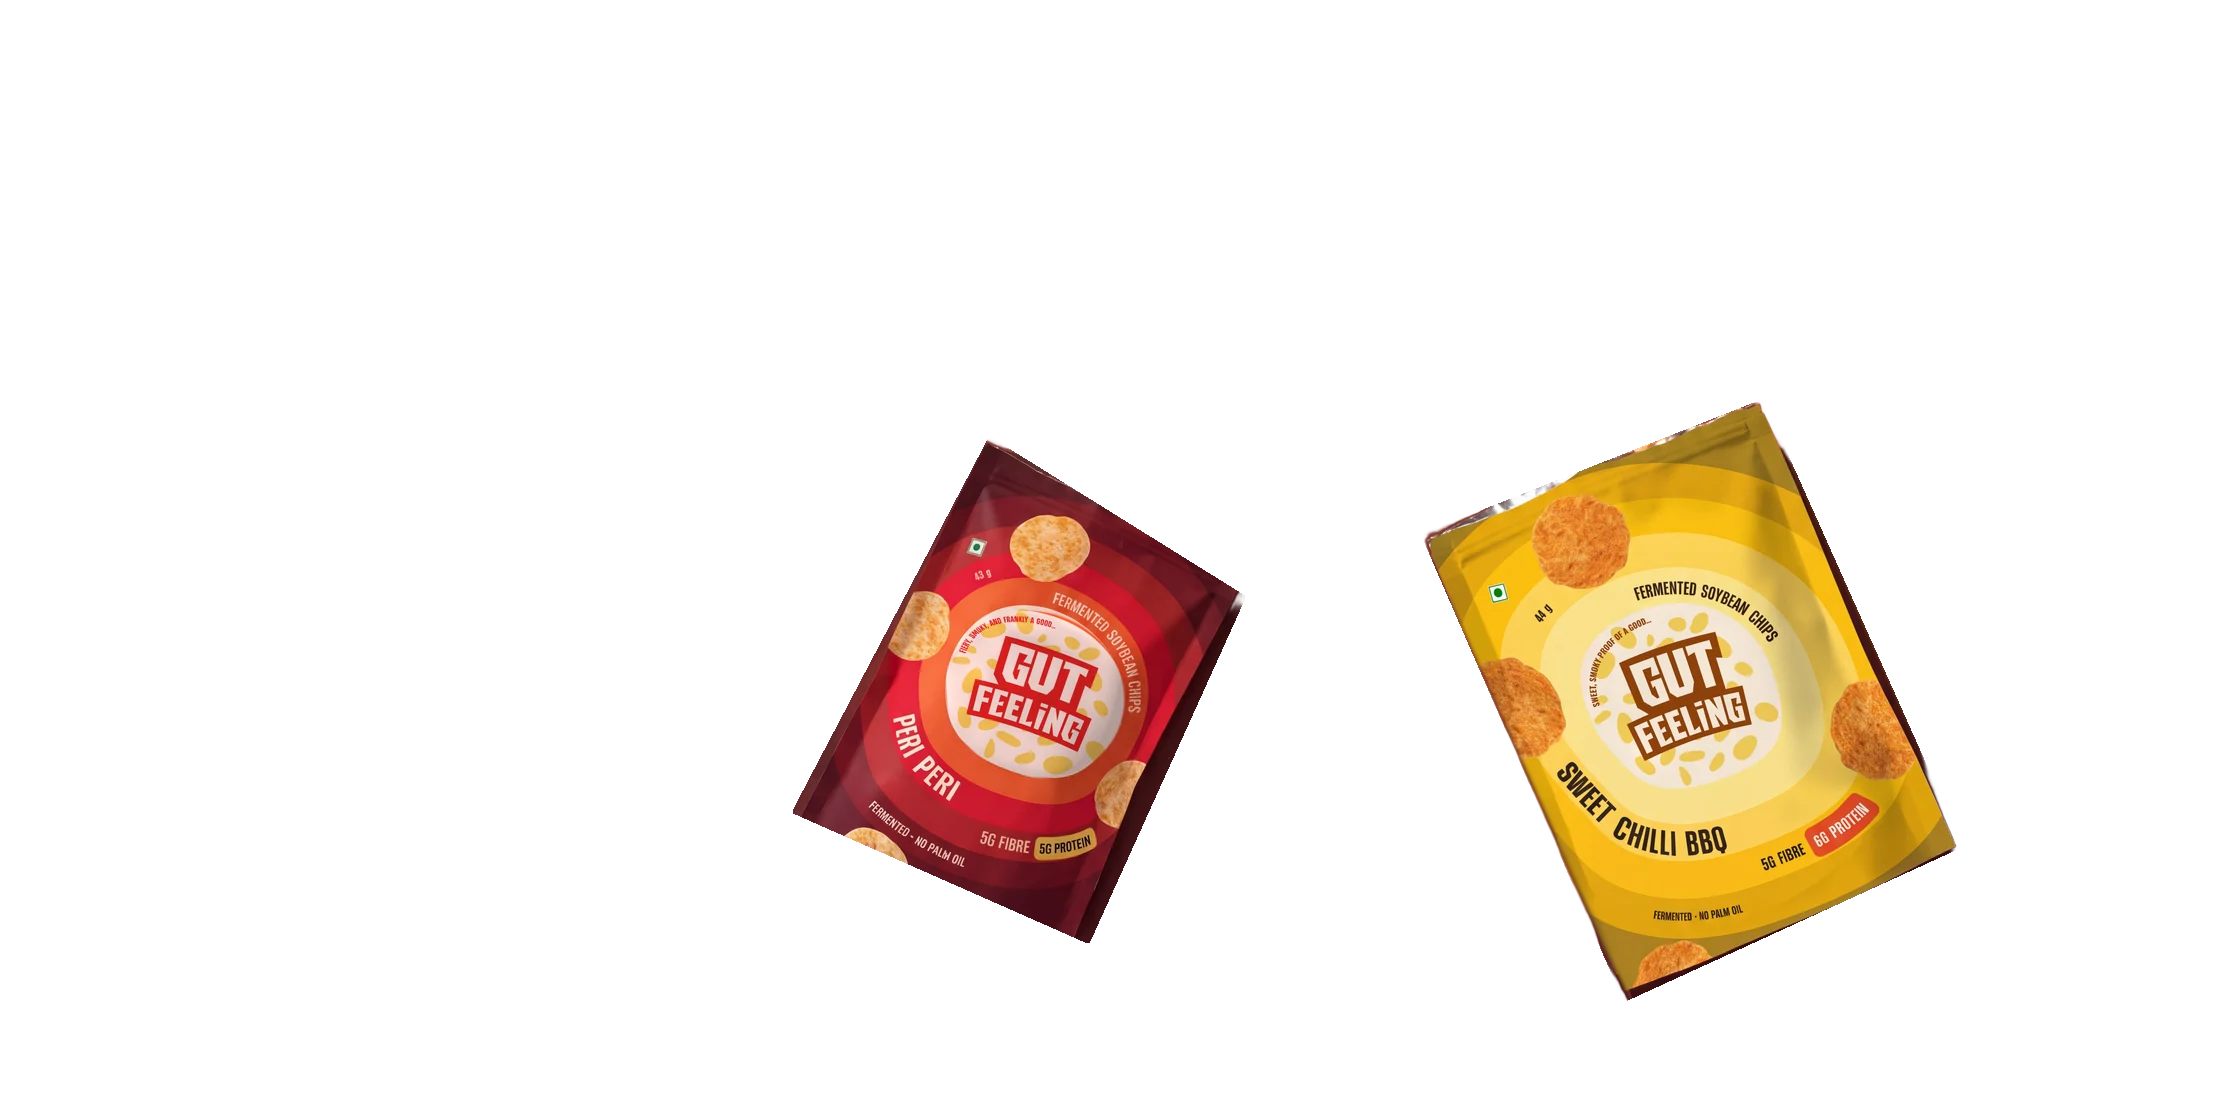
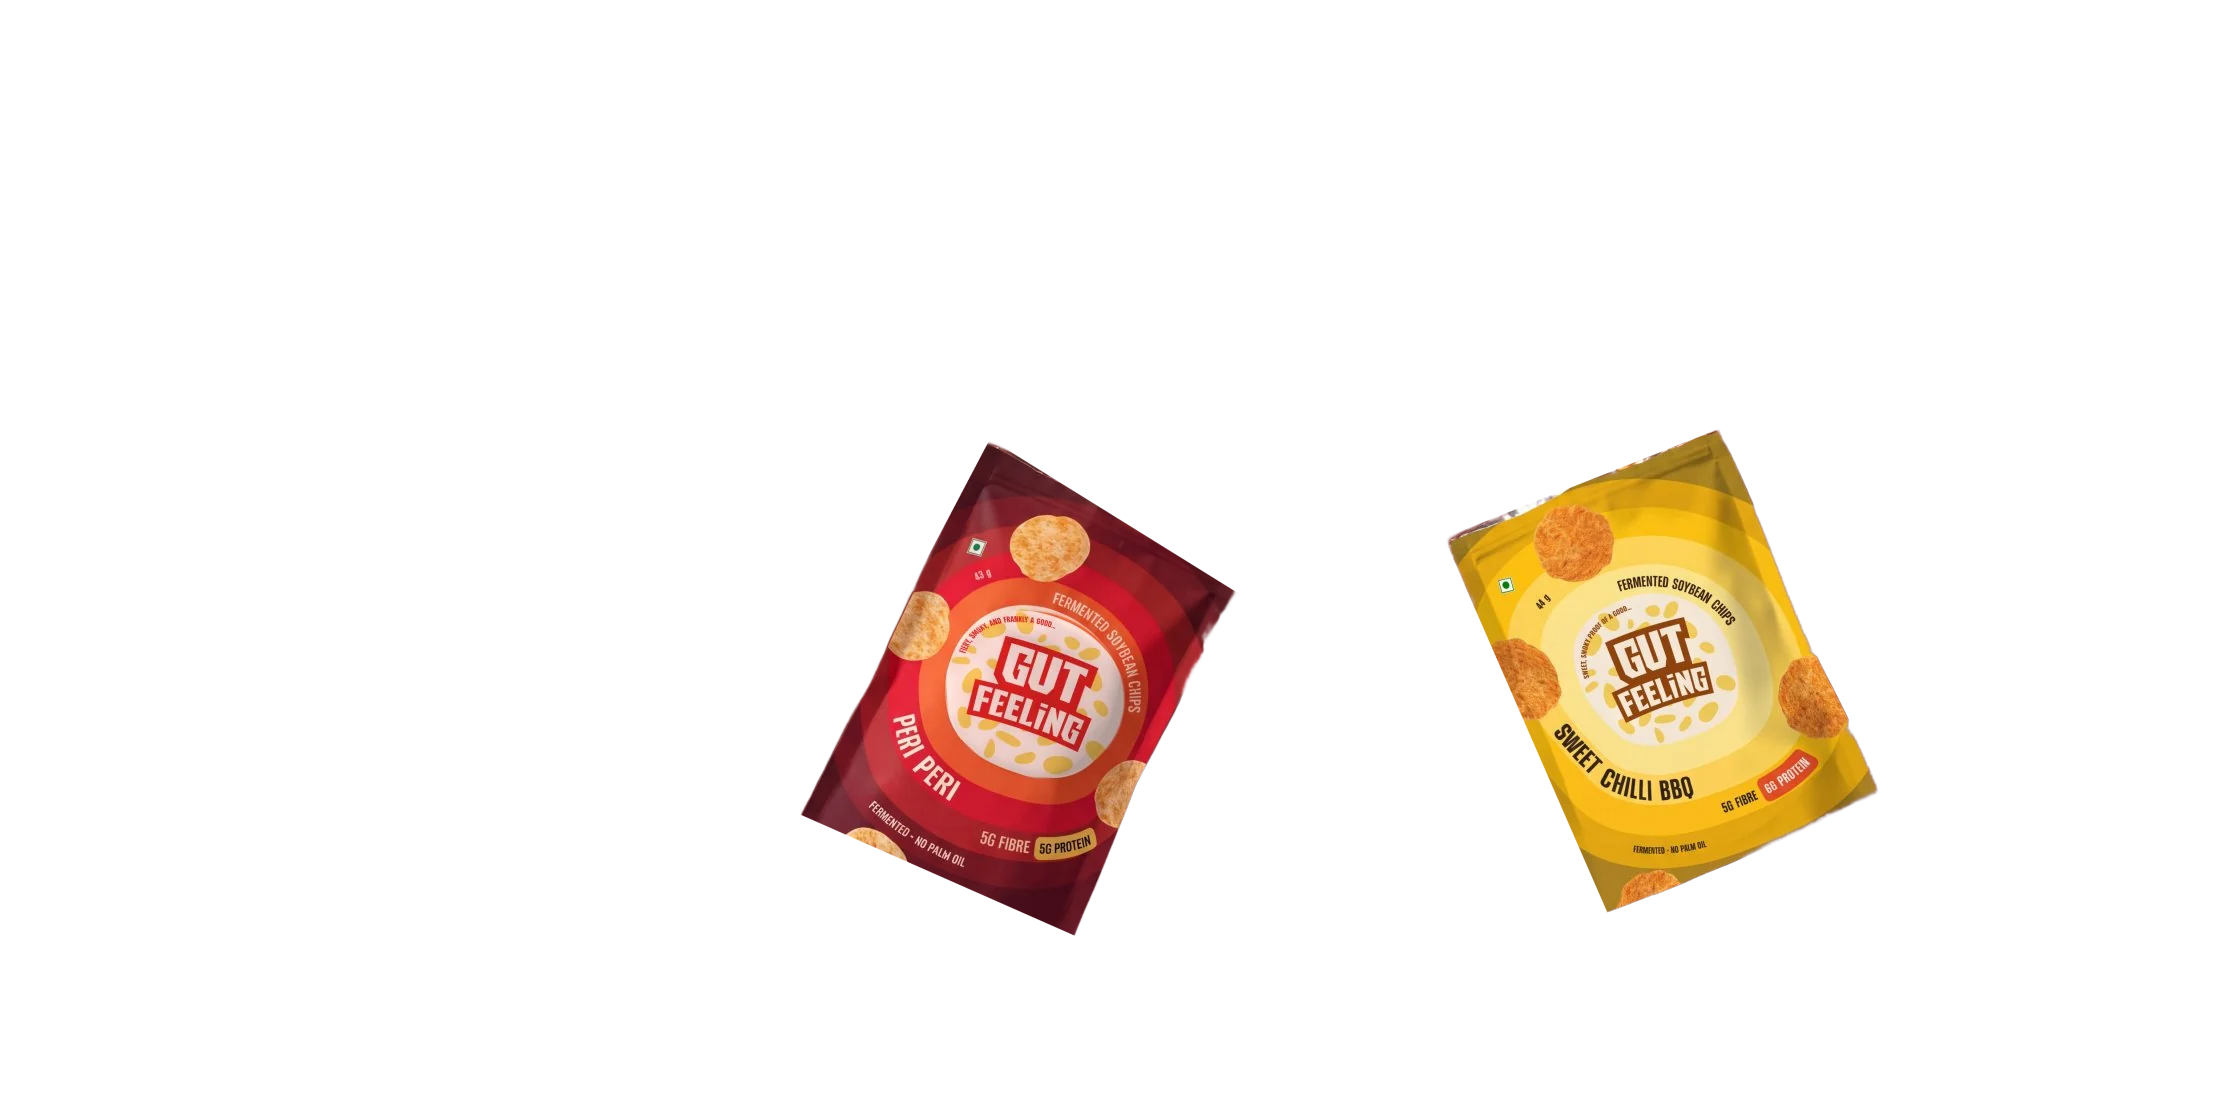
Same-size packs everywhere: flat pouch with the exact print for both flavours and the vote pouches; BBQ hero pack matched to Peri Peri

diff --git a/index.html b/index.html
@@ -434,13 +434,13 @@ transform:translate(calc(var(--i) * 4% * var(--dir)),calc(var(--i) * -6.5%)) sca
   </div>
   <div class="cands">
     <article class="cand a">
-      <div class="shot"><img src="img/pouch-ocean.webp" alt="A plain blue test pouch with a question-mark sticker" width="617" height="1100" loading="lazy"></div>
+      <div class="shot"><img src="img/pouch-ocean.webp" alt="A plain blue test pouch with a question-mark sticker" width="680" height="1100" loading="lazy"></div>
       <h3>Masala Chaas</h3><p>Cool, tangy, a pinch of roasted jeera.</p>
       <div class="goal"><div class="tr"><i></i></div><p><b class="c">0</b> of 500 votes</p></div>
       <button class="vbtn" type="button" data-vote="a" aria-pressed="false"><svg viewBox="0 0 24 24" aria-hidden="true"><path d="M12 20s-7-4.4-7-10a4 4 0 0 1 7-2.6A4 4 0 0 1 19 10c0 5.6-7 10-7 10z"/></svg><span class="burst" aria-hidden="true"><i></i><i></i><i></i><i></i><i></i><i></i></span><span class="lbl">Vote</span></button>
     </article>
     <article class="cand b">
-      <div class="shot"><img src="img/pouch-apple.webp" alt="A plain green test pouch with a question-mark sticker" width="615" height="1100" loading="lazy"></div>
+      <div class="shot"><img src="img/pouch-apple.webp" alt="A plain green test pouch with a question-mark sticker" width="680" height="1100" loading="lazy"></div>
       <h3>Lime &amp; Black Salt</h3><p>Sharp, salty, the nimbu soda of chips.</p>
       <div class="goal"><div class="tr"><i></i></div><p><b class="c">0</b> of 500 votes</p></div>
       <button class="vbtn" type="button" data-vote="b" aria-pressed="false"><svg viewBox="0 0 24 24" aria-hidden="true"><path d="M12 20s-7-4.4-7-10a4 4 0 0 1 7-2.6A4 4 0 0 1 19 10c0 5.6-7 10-7 10z"/></svg><span class="burst" aria-hidden="true"><i></i><i></i><i></i><i></i><i></i><i></i></span><span class="lbl">Vote</span></button>
@@ -509,7 +509,7 @@ transform:translate(calc(var(--i) * 4% * var(--dir)),calc(var(--i) * -6.5%)) sca
 
   /* ---------- hero ---------- */
   // Pack positions measured from each hero image (image pixels), per flavour on phones: top of the highest pack, bottom of the pack, left edge of the packs.
-  var IMG={peri:{iw:1080,ih:1935,top:871,bottom:1655,left:90},bbq:{iw:1080,ih:1935,top:916,bottom:1852,left:206},wide:{iw:2240,ih:1116,top:402,bottom:999,left:796}};
+  var IMG={peri:{iw:1080,ih:1935,top:932,bottom:1883,left:40},bbq:{iw:1080,ih:1935,top:916,bottom:1852,left:206},wide:{iw:2240,ih:1116,top:429,bottom:940,left:796}};
   var F={peri:{lines:['Peri','Peri'],alt:'An open pack of Peri Peri chips on a red-oxide floor in hard afternoon sun'},
          bbq:{lines:['Sweet','Chilli'],alt:'An open pack of Sweet Chilli BBQ chips on a red-oxide floor in hard afternoon sun'}};
   var hero=$('.hero'),stage=$('#stage'),bg=$('#heroBg'),fg=$('#heroFg'),word=$('#heroWord'),panel=$('#panel'),buy=$('#heroBuy');
